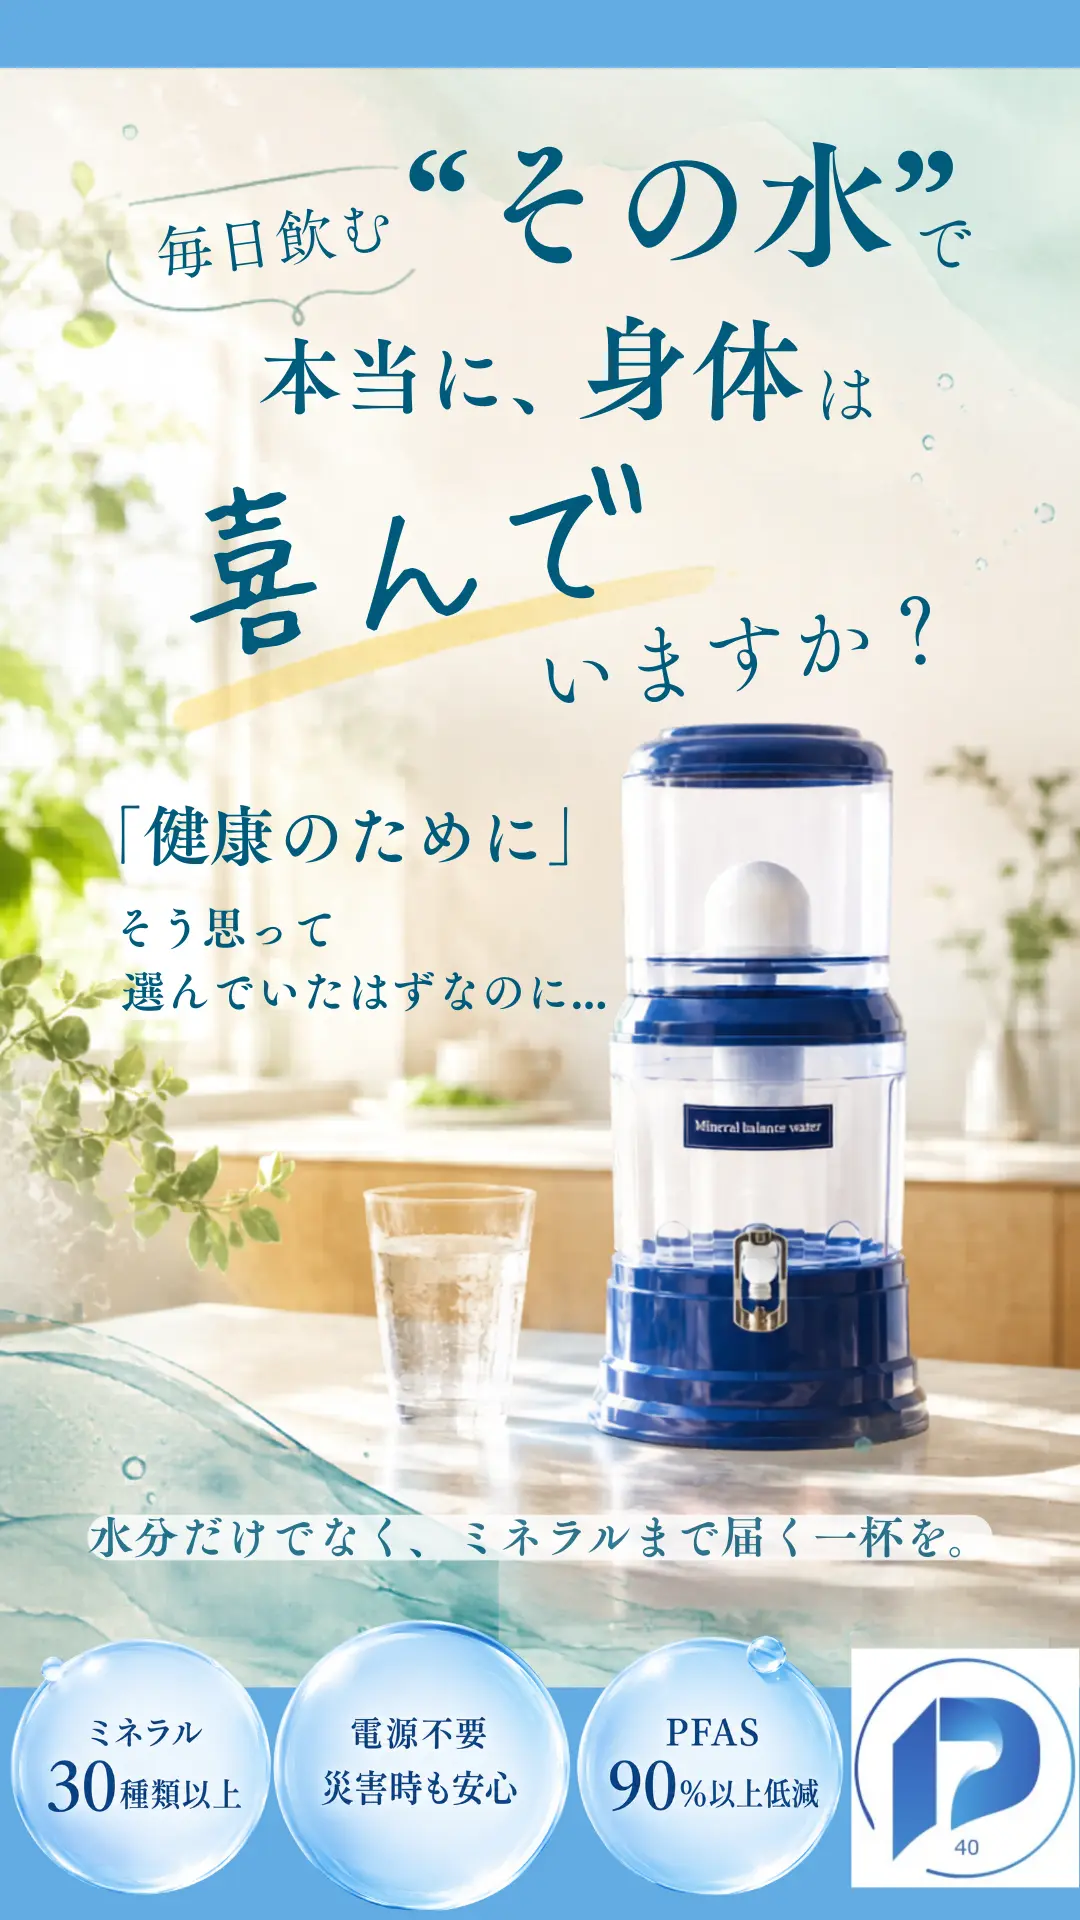
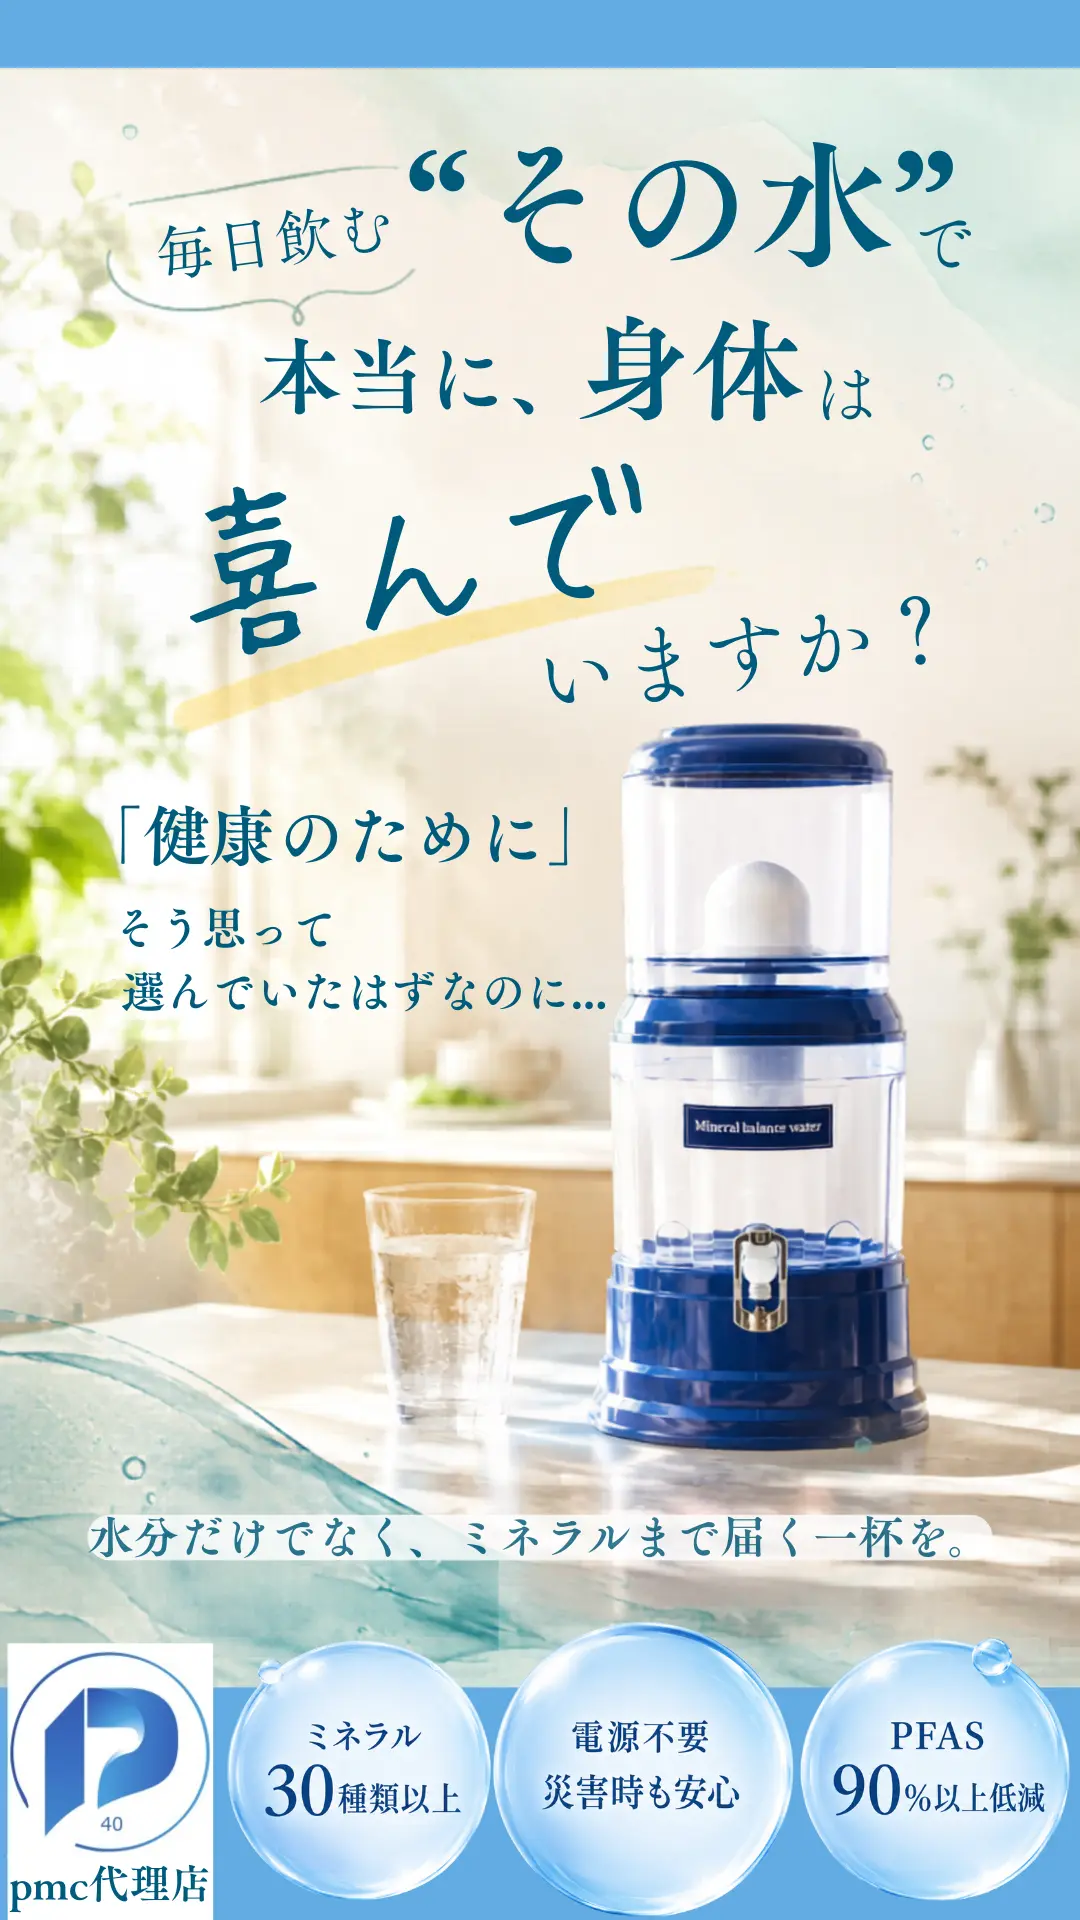
完成

Changed region(s): [[0.0, 0.8438, 1.0, 1.0]]

diff --git a/css/05_sections-11-15.css b/css/05_sections-11-15.css
@@ -741,3 +741,49 @@
   margin-top: 4px;
   border-top: 1px dashed rgba(184, 74, 60, 0.35);
 }
+
+
+/* セクション15内：申込ID表示 */
+.sec-15__referral-id {
+  display: inline-flex;
+  align-items: baseline;
+  justify-content: center;
+  gap: 12px;
+  margin: 4px auto 16px;
+  padding: 8px 22px;
+  background: var(--c-navy);
+  border-radius: 999px;
+  border: 1px solid var(--c-gold);
+}
+
+.sec-15__referral-id-label {
+  font-family: var(--f-serif);
+  font-size: 11px;
+  color: var(--c-gold-light);
+  letter-spacing: 0.25em;
+  font-weight: 500;
+}
+
+.sec-15__referral-id-value {
+  font-family: 'SF Mono', 'Menlo', monospace, var(--f-serif);
+  font-size: 18px;
+  color: var(--c-cream);
+  font-weight: 700;
+  letter-spacing: 0.15em;
+}
+
+/* 「ササキエリ」表記用にサイズ調整（5文字を1行に収める） */
+.sec-15__referral-name-text {
+  font-size: 26px;
+  letter-spacing: 0.08em;
+}
+
+@media (min-width: 768px) {
+  .sec-15__referral-name-text {
+    font-size: 40px;
+    letter-spacing: 0.1em;
+  }
+  .sec-15__referral-id-value {
+    font-size: 22px;
+  }
+}

diff --git a/css/02_common.css b/css/02_common.css
@@ -313,27 +313,31 @@ img.reveal {
   transform: translateX(-50%) translateY(-2px);
 }
 
-/* 左：ID:エリ 小さく表示 */
-.floating-bar__id {
-  display: inline-flex;
-  align-items: baseline;
-  gap: 6px;
+/* 左：申込ID＋紹介者を2行で小さく表示
+   ※ floating-bar__info-line を display:block にして
+     確実に2行になる仕組み */
+.floating-bar__info {
+  display: inline-block;
   font-family: var(--f-serif);
+  line-height: 1.3;
+  padding-right: 6px;
+  text-align: left;
+}
+
+.floating-bar__info-line {
+  display: block;
   white-space: nowrap;
-}
-
-.floating-bar__id-label {
   font-size: 10px;
-  color: var(--c-gold-light);
-  letter-spacing: 0.2em;
-  font-weight: 500;
+  color: rgba(245, 232, 220, 0.9);
+  letter-spacing: 0.05em;
 }
 
-.floating-bar__id-value {
-  font-size: 16px;
+.floating-bar__info-line b {
   color: var(--c-gold-light);
   font-weight: 700;
-  letter-spacing: 0.15em;
+  font-size: 12px;
+  letter-spacing: 0.08em;
+  margin-left: 2px;
 }
 
 .floating-bar__divider {

diff --git a/index.html b/index.html
@@ -129,7 +129,7 @@
     <h2 class="sec-04__title">
       <span class="marker">「ミネラル不足」</span>
     </h2>
-    <!--<p class="sec-04__lead">と言われています。</p> -->
+    <p class="sec-04__lead">と言われています。</p>
 
     <img src="images/04_modern-life.webp"
          alt="現代の食卓と農業のイメージ"
@@ -660,17 +660,11 @@
    target="_blank"
    rel="noopener noreferrer">
   <span class="floating-bar__info">
-    <span class="floating-bar__info-row">
-      <span class="floating-bar__info-label">ID</span>
-      <span class="floating-bar__info-value">442981</span>
-    </span>
-    <span class="floating-bar__info-row">
-      <!--<span class="floating-bar__info-label">紹介者</span>-->
-      <span class="floating-bar__info-value">ササキエリ</span>
-    </span>
+    <span class="floating-bar__info-line">申し込みID&nbsp;&nbsp;<b>442981</b></span>
+    <span class="floating-bar__info-line">紹介者&nbsp;&nbsp;<b>ササキエリ</b></span>
   </span>
   <span class="floating-bar__divider"></span>
-  <span class="floating-bar__cta-text">申し込み</span>
+  <span class="floating-bar__cta-text">お申し込み</span>
   <span class="floating-bar__arrow">→</span>
 </a>
 